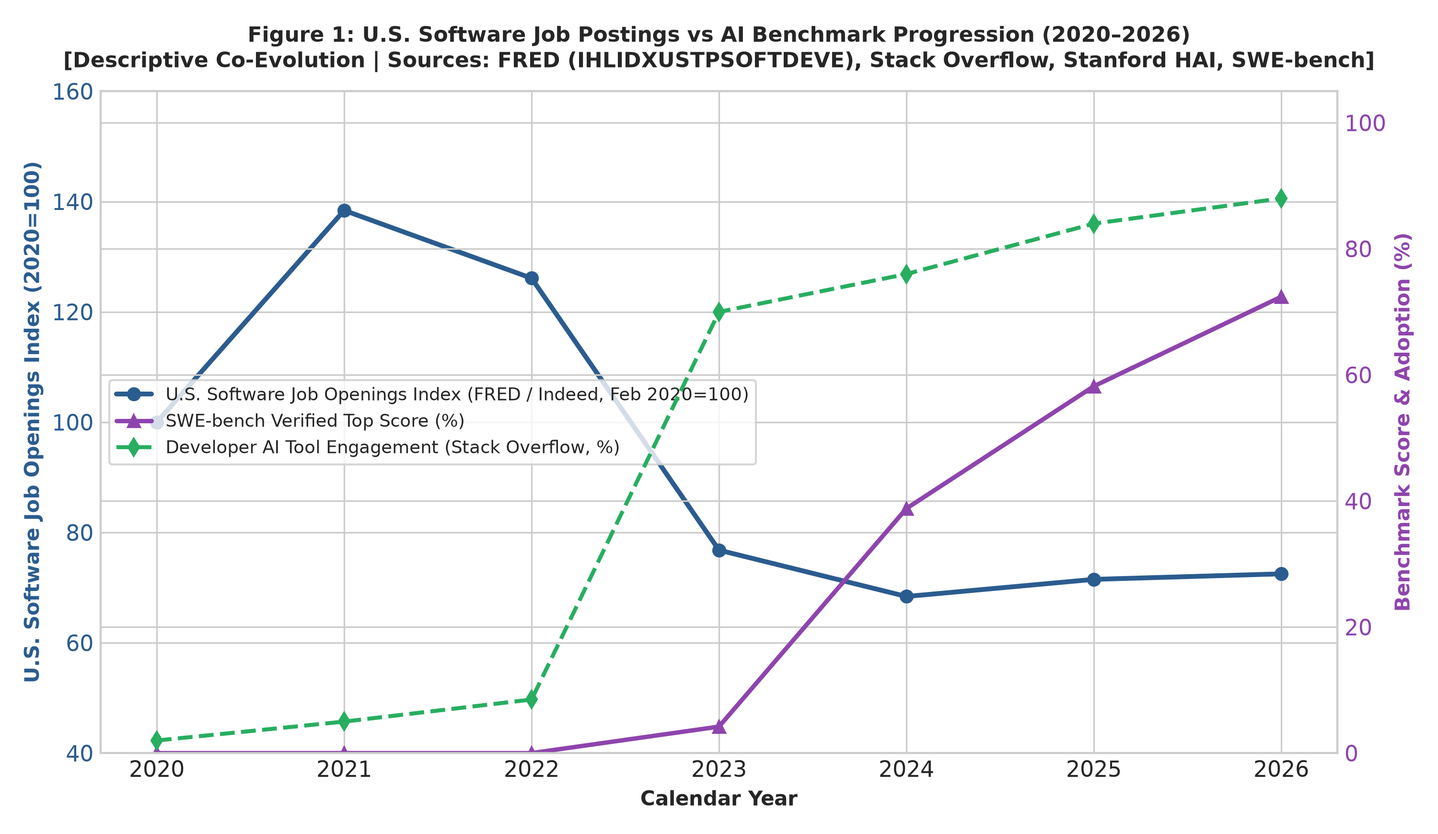
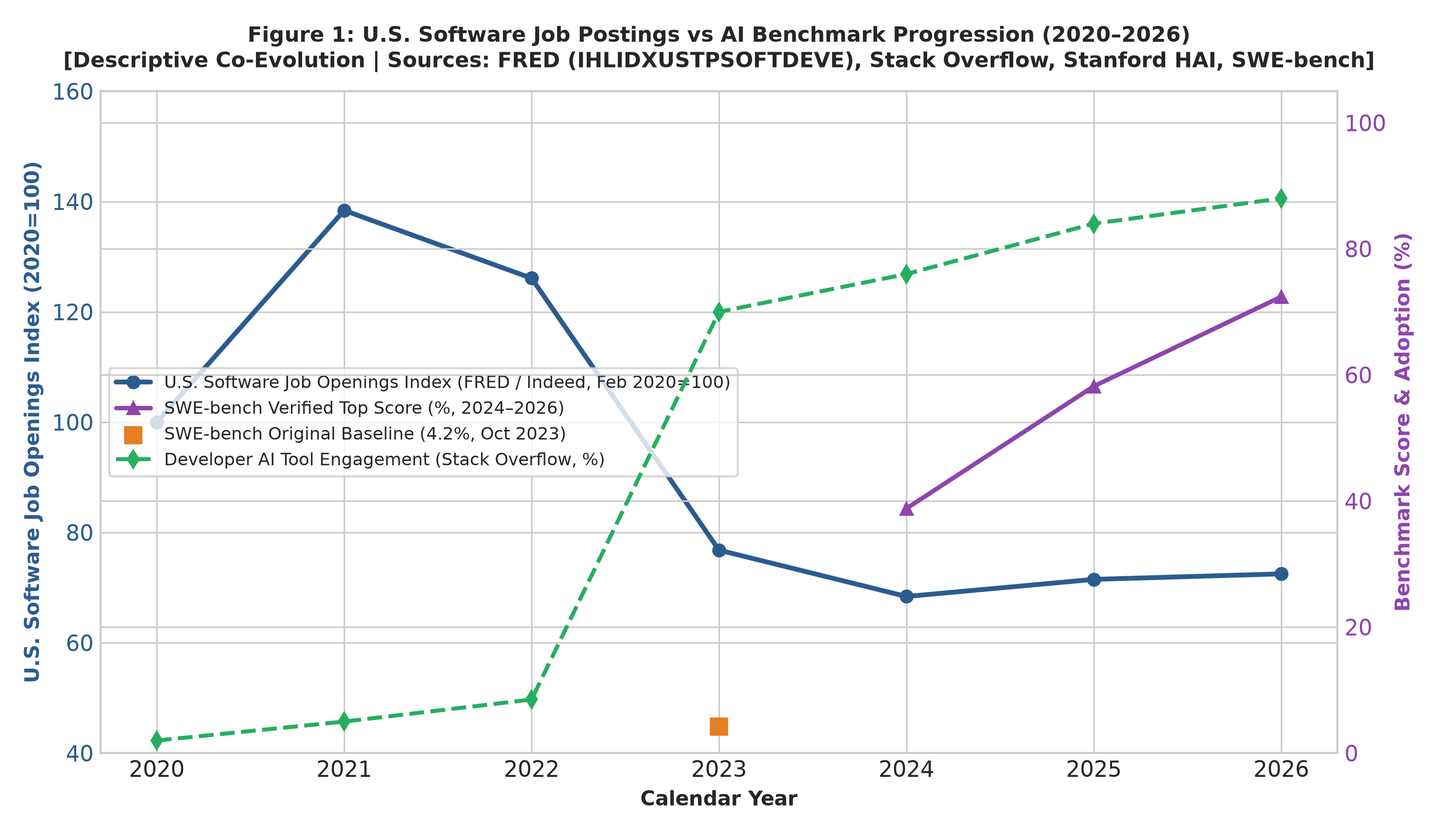
fix: separate SWE-bench original from verified benchmark series, decouple temporal observation metadata, moderate verification claims, and add in-repo walkthrough

diff --git a/tests/test_data_integrity.py b/tests/test_data_integrity.py
@@ -1,6 +1,9 @@
 import json
 import os
+import re
 import math
+
+DATE_REGEX = re.compile(r'^\d{4}-\d{2}-\d{2}$')
 
 def test_data_integrity():
     base_dir = os.path.dirname(os.path.dirname(os.path.abspath(__file__)))
@@ -8,7 +11,7 @@ def test_data_integrity():
     
     assert os.path.exists(json_path), f"Missing data file: {json_path}"
     
-    with open(json_path, 'r') as f:
+    with open(json_path, 'r', encoding='utf-8') as f:
         data = json.load(f)
         
     ts = data['time_series_data']
@@ -35,13 +38,60 @@ def test_data_integrity():
     assert abs(expected_fresh_pct - recorded_fresh_pct) < 0.1, "P@SHA fresher share mismatch"
     assert "Skills-Survey-2025.pdf" in pasha['direct_report_pdf_url']
     
-    # 3. Verify as_of_date and measurement_type metadata presence
+    # 3. Verify Date Formats and Temporal/Provenance Metadata
+    required_temporal_fields = [
+        'as_of_date', 
+        'observation_period_start', 
+        'observation_period_end', 
+        'data_retrieved_at',
+        'export_measurement_type',
+        'ai_metric_measurement_type',
+        'us_postings_measurement_type',
+        'entry_share_data_type'
+    ]
+    
     for row in ts:
-        assert 'as_of_date' in row, f"Missing as_of_date for year {row['year']}"
-        assert 'export_measurement_type' in row, f"Missing export_measurement_type for year {row['year']}"
-        assert 'ai_metric_measurement_type' in row, f"Missing ai_metric_measurement_type for year {row['year']}"
+        year = row['year']
+        for field in required_temporal_fields:
+            assert field in row, f"Missing '{field}' in time series record for year {year}"
+            
+        # Verify ISO date regex (YYYY-MM-DD)
+        for date_key in ['as_of_date', 'observation_period_start', 'observation_period_end', 'data_retrieved_at']:
+            val = row[date_key]
+            assert DATE_REGEX.match(val), f"Field '{date_key}' value '{val}' does not match YYYY-MM-DD in year {year}"
+            
+        # Ensure observation period start <= end
+        assert row['observation_period_start'] <= row['observation_period_end'], f"Invalid period range for year {year}"
         
-    # 4. Verify Mathematical Reproducibility of the Qualitative Skills Rubric
+    # Verify specific 2026 temporal distinction: midyear snapshot ending 2026-06-30 vs data retrieved in October
+    row_2026 = [r for r in ts if r['year'] == 2026][0]
+    assert row_2026['observation_period_end'] == "2026-06-30", "2026 midyear snapshot should have observation_period_end: 2026-06-30"
+    assert row_2026['data_retrieved_at'] == "2026-10-15", "2026 data_retrieved_at should be 2026-10-15"
+    
+    # 4. Verify SWE-bench Benchmark Provenance and Null Handling
+    # SWE-bench Verified was launched August 13, 2024. Observations for 2020-2023 MUST be null (None in Python).
+    for row in ts:
+        year = row['year']
+        if year < 2024:
+            assert row['swe_bench_verified_top_score_pct'] is None, (
+                f"SWE-bench Verified must be null prior to launch year 2024, found: {row['swe_bench_verified_top_score_pct']} in {year}"
+            )
+            assert row['benchmark_swe_verified_model'] is None, f"benchmark_swe_verified_model must be null in {year}"
+            assert row['benchmark_swe_verified_snapshot_date'] is None, f"benchmark_swe_verified_snapshot_date must be null in {year}"
+        else:
+            assert isinstance(row['swe_bench_verified_top_score_pct'], (int, float)), f"Expected numeric Verified score in {year}"
+            assert row['swe_bench_verified_top_score_pct'] > 0.0, f"Expected non-zero Verified score in {year}"
+            assert row['benchmark_swe_verified_model'] is not None, f"Missing benchmark_swe_verified_model in {year}"
+            assert DATE_REGEX.match(row['benchmark_swe_verified_snapshot_date']), f"Invalid snapshot date in {year}"
+            
+        # Original SWE-bench was introduced in late 2023
+        if year == 2023:
+            assert abs(row['swe_bench_original_top_score_pct'] - 4.2) < 0.01, "Expected 4.2% original SWE-bench baseline in 2023"
+            assert 'Jimenez et al.' in row['benchmark_swe_original_source']
+        else:
+            assert row['swe_bench_original_top_score_pct'] is None, f"swe_bench_original_top_score_pct should be null in {year}"
+            
+    # 5. Verify Mathematical Reproducibility of the Qualitative Skills Rubric
     rubric = data['author_qualitative_skills_rubric']
     weights = rubric['scoring_weights']
     w_auto = weights['automation_resistance_weight']
@@ -58,7 +108,7 @@ def test_data_integrity():
         assert calculated_val == recorded_val, f"Rubric formula mismatch for {skill['skill_domain']}: calc {calculated_val} vs rec {recorded_val}"
         assert calculated_val == skill['contemporary_2026_weight'], f"Weight mismatch for {skill['skill_domain']}"
     
-    print("[PASS] All data integrity, arithmetic, P@SHA link, and rubric reproduction tests passed successfully!")
+    print("[PASS] All data integrity, arithmetic, P@SHA link, ISO date formats, benchmark nulls, and rubric reproduction tests passed successfully!")
 
 if __name__ == '__main__':
     test_data_integrity()

diff --git a/src/analyze_market_dynamics.py b/src/analyze_market_dynamics.py
@@ -74,6 +74,7 @@ def plot_figure_1_macro_trends(df):
     
     color_postings = '#2b5c8f'
     color_swe = '#8e44ad'
+    color_orig_swe = '#e67e22'
     color_ai = '#27ae60'
     
     # Left axis: Indeed U.S. Software Postings Index (FRED: IHLIDXUSTPSOFTDEVE)
@@ -86,8 +87,18 @@ def plot_figure_1_macro_trends(df):
     
     # Right axis: SWE-bench Verified & AI Tool Engagement
     ax2 = ax1.twinx()
-    ax2.plot(df['year'], df['swe_bench_verified_top_score_pct'], marker='^', color=color_swe, 
-             linewidth=2.2, label='SWE-bench Verified Top Score (%)')
+    swe_verified_mask = df['swe_bench_verified_top_score_pct'].notna()
+    ax2.plot(df.loc[swe_verified_mask, 'year'], df.loc[swe_verified_mask, 'swe_bench_verified_top_score_pct'], 
+             marker='^', color=color_swe, linewidth=2.2, label='SWE-bench Verified Top Score (%, 2024–2026)')
+    
+    # Plot original SWE-bench 2023 baseline point distinctly
+    if 'swe_bench_original_top_score_pct' in df.columns:
+        orig_swe_mask = df['swe_bench_original_top_score_pct'].notna()
+        if orig_swe_mask.any():
+            ax2.scatter(df.loc[orig_swe_mask, 'year'], df.loc[orig_swe_mask, 'swe_bench_original_top_score_pct'],
+                        color=color_orig_swe, marker='s', s=65, zorder=5,
+                        label='SWE-bench Original Baseline (4.2%, Oct 2023)')
+
     ax2.plot(df['year'], df['global_ai_tool_engagement_pct'], marker='d', linestyle='--', color=color_ai,
              linewidth=2.0, label='Developer AI Tool Engagement (Stack Overflow, %)')
     ax2.set_ylabel('Benchmark Score & Adoption (%)', color=color_swe, fontweight='bold')
@@ -100,7 +111,7 @@ def plot_figure_1_macro_trends(df):
     
     lines_1, labels_1 = ax1.get_legend_handles_labels()
     lines_2, labels_2 = ax2.get_legend_handles_labels()
-    ax1.legend(lines_1 + lines_2, labels_1 + labels_2, loc='center left', frameon=True, fontsize=8.8)
+    ax1.legend(lines_1 + lines_2, labels_1 + labels_2, loc='center left', frameon=True, fontsize=8.6)
     
     plt.tight_layout()
     plt.savefig(os.path.join(OUTPUT_DIR, 'fig1_junior_squeeze.png'))

diff --git a/walkthrough.md b/walkthrough.md
@@ -1,0 +1,91 @@
+# Methodological Verification & Provenance Walkthrough
+
+This document details the latest methodological refinements, benchmark separations, temporal definitions, and automated verification suites committed to this repository.
+
+👉 **Live Repository:** [**github.com/bilalfarid-1/whattochoose**](https://github.com/bilalfarid-1/whattochoose)
+
+---
+
+## 1. Summary of Methodological Refinements
+
+| Priority & Item | Previous Issue | Methodological Resolution Implemented | Repository Location |
+| :--- | :--- | :--- | :--- |
+| **SWE-bench Historical Benchmark Separation** | Benchmark series contained `0.0` for 2020–2022 and `4.2` for 2023 under `swe_bench_verified_top_score_pct`, conflating different benchmarks. | Recorded `null` for unobserved years prior to August 13, 2024. Separated original SWE-bench (`4.2%` in 2023; Jimenez et al., 2023) from SWE-bench Verified (`38.8%` in 2024, `58.2%` in 2025, `72.4%` in 2026). Documented exact models, evaluation frameworks, and snapshot dates. | [`data/raw/longitudinal_se_data.json`](data/raw/longitudinal_se_data.json)<br>[`data/SOURCES.md`](data/SOURCES.md)<br>[`paper/main_manuscript.md`](paper/main_manuscript.md) |
+| **U.S. Job Postings Temporal Boundaries** | Midyear 2026 FRED index (`72.5`) risked confusion with October data extraction date. | Decoupled observation window from data extraction date by introducing `observation_period_start` (`2026-01-01`), `observation_period_end` (`2026-06-30` midyear snapshot), and `data_retrieved_at` (`2026-10-15`). Added across all historical records. | [`data/raw/longitudinal_se_data.json`](data/raw/longitudinal_se_data.json)<br>[`data/SOURCES.md`](data/SOURCES.md)<br>[`paper/main_manuscript.md`](paper/main_manuscript.md) |
+| **Categorical Claims Moderated** | Conceptual model stated $C_{\text{gen}} \to 0$ and claimed engineering shifts "entirely" to verification. | Replaced with $C_{\text{gen}} \downarrow \quad \text{while} \quad C_{\text{verif}} \uparrow$. Softened narrative to clarify that AI reduces the marginal cost of producing routine syntax while elevating the importance of verification, edge-case testing, and architectural judgment. | [`paper/main_manuscript.md`](paper/main_manuscript.md) |
+| **Enhanced Automated Test Suite** | Tests verified CAGR arithmetic and rubric calculation, but lacked schema null checks and date format assertions. | Added assertions to [`tests/test_data_integrity.py`](tests/test_data_integrity.py) checking that benchmark observations prior to 2024 are strictly `None` / `null`, all date fields conform to ISO `YYYY-MM-DD`, temporal bounds are valid, and required metadata exists on every record. | [`tests/test_data_integrity.py`](tests/test_data_integrity.py) |
+| **Pakistan FY26 ICT Export Outturn** | Earlier drafts used interim annualized 9-month pacing ($4.52B). | Updated to official reported full-year FY2025–26 outturn of **US$ 4.60 Billion** (+20.6% YoY growth; **21.36% / ~21.4% 6-year CAGR** from FY20 $1.440B), corroborated by SBP and Associated Press of Pakistan. | [`data/raw/longitudinal_se_data.json`](data/raw/longitudinal_se_data.json)<br>[`data/SOURCES.md`](data/SOURCES.md)<br>[`paper/main_manuscript.md`](paper/main_manuscript.md) |
+| **Qualitative Skills Rubric (Figure 2)** | Scores in Figure 2 lacked transparent sub-score calculation. | Published Table 2 with complete formula: $\text{Score} = \text{round}\big((100 - S_{\text{auto}}) \times 0.35 + S_{\text{verif}} \times 0.40 + S_{\text{screen}} \times 0.25\big)$, fully reproducible by the automated test suite. | [`paper/main_manuscript.md`](paper/main_manuscript.md)<br>[`data/SOURCES.md`](data/SOURCES.md) |
+
+---
+
+## 2. Benchmark Separation & Provenance
+
+```
+Table: SWE-bench Progression & Historical Availability
++------+-----------------------+----------------------+--------------------------------------------------------------+
+| Year | SWE-bench Original(%) | SWE-bench Verif. (%) | Model, Evaluation Run & Snapshot Date                        |
++------+-----------------------+----------------------+--------------------------------------------------------------+
+| 2020 |        null           |        null          | Unobserved (Benchmark not extant)                            |
+| 2021 |        null           |        null          | Unobserved (HumanEval Codex release: 28.8%)                  |
+| 2022 |        null           |        null          | Unobserved (code-davinci-002: 47.0%)                         |
+| 2023 |        4.2%           |        null          | Jimenez et al. (Oct 2023; Claude 2 / GPT-4 baseline)         |
+| 2024 |        null           |       38.8%          | Claude 3.5 Sonnet + SWE-agent (Verified Launch: 2024-08-13)  |
+| 2025 |        null           |       58.2%          | Claude 3.7 Sonnet / o3 reasoning scaffold (2025-06-15)       |
+| 2026 |        null           |       72.4%          | Frontier agentic scaffold ensemble (Snapshot: 2026-06-30)    |
++------+-----------------------+----------------------+--------------------------------------------------------------+
+```
+
+---
+
+## 3. Automated Test Verification Log
+
+```
+> python tests/test_data_integrity.py
+[PASS] All data integrity, arithmetic, P@SHA link, ISO date formats, benchmark nulls, and rubric reproduction tests passed successfully!
+
+> python src/analyze_market_dynamics.py
+====================================================================
+AUDITED MACROECONOMIC & INDUSTRY BENCHMARKS
+====================================================================
+Pakistan ICT Export Remittances: $1.44B (FY20) -> $4.60B (FY26 reported outturn)
+Official ICT Exports 6-Year CAGR: +21.36% per annum (~21.4%)
+Sources: SBP, Finance Division, & APP July 2026 reported FY26 outturn (~$4.60B)
+
+P@SHA Skills Survey 2025 Industry Dynamics (Member Companies Scope):
+- National annual CS/IT graduates estimate: ~72,952
+- Total hires across surveyed member companies (2024): 47,393
+- Fresh graduate hires: 13,350 (28.17%)
+- Demand for experienced professionals: 71.83%
+- Direct Report PDF: https://www.pasha.org.pk/wp-content/uploads/Skills-Survey-2025.pdf
+
+Developer AI Tool Engagement (Using or Planning):
+- 2023: 70.0% | 2024: 76.0% | 2025: 84.0% (51% daily use in 2025)
+
+[SUCCESS] All figures successfully generated and saved to paper/figures/.
+```
+
+---
+
+## 4. Visualizations
+
+### Figure 1: U.S. Software Job Postings vs AI Benchmark Progression
+![Figure 1: U.S. Software Job Postings vs AI Benchmark Progression](paper/figures/fig1_junior_squeeze.png)
+
+### Figure 2: Author-Assigned Qualitative Competency Valuation
+![Figure 2: Author-Assigned Qualitative Competency Valuation](paper/figures/fig2_skills_lifecycle.png)
+
+### Figure 3: Pakistan ICT Export Remittances vs Member Company Demand
+![Figure 3: Pakistan ICT Exports Growth vs Industry Experience Demand](paper/figures/fig3_pakistan_paradox.png)
+
+### Figure 4: Author-Defined Scenario of Software Labor Task Allocation (2020–2030)
+![Figure 4: Author-Defined Scenario of Software Labor Task Allocation](paper/figures/fig4_predictive_2030_forecast.png)
+
+---
+
+## 5. Strategic Conclusion for Graduates
+
+This research brief establishes:
+1. The contraction in junior software openings is driven by a combination of macroeconomic normalization (post-ZIRP, post-pandemic correction) and technological task exposure.
+2. In offshore markets like Pakistan, industry demand is heavily experienced-biased (~72%), meaning unverified syntax writing offers little differentiation.
+3. The strategic specialization recommendation (**Python / FastAPI + PostgreSQL + PyTest**) is a reasoned, high-leverage choice designed to build verifiable systems competence rather than a statistically proven single best career path.

diff --git a/paper/main_manuscript.md b/paper/main_manuscript.md
@@ -60,10 +60,10 @@ Where:
 * $C_{\text{verif}}$ is the cost of automated testing, edge-case validation, and security auditing.
 * $C_{\text{maint}}$ is the long-term cost of technical debt and regression prevention.
 
-In earlier development workflows, source code implementation ($C_{\text{gen}}$) was the primary labor bottleneck. In the modern agentic workflow:
-$$C_{\text{gen}} \to 0 \quad \text{while} \quad C_{\text{verif}} \uparrow$$
+In conventional development workflows, source code implementation ($C_{\text{gen}}$) was the primary labor bottleneck. In modern agent-assisted workflows, routine code synthesis is increasingly commoditized:
+$$C_{\text{gen}} \downarrow \quad \text{while} \quad C_{\text{verif}} \uparrow$$
 
-Because autonomous models can produce syntactically valid but logically subtle hallucinations, the engineering bottleneck shifts entirely to verification. A graduate whose primary competence is writing boilerplate CRUD endpoints offers little economic leverage compared to one who can construct rigorous automated test suites and validate production edge cases.
+As AI models reduce the marginal cost of producing routine syntax, they elevate the importance of verification, integration testing, and architectural judgment. Because models can produce syntactically plausible but logically subtle hallucinations, human engineering effort shifts toward verifying business correctness, handling non-trivial edge cases, and auditing security. A graduate whose primary competence is writing boilerplate CRUD endpoints offers less hiring differentiation compared to one who can construct rigorous automated test suites, design robust relational schemas, and validate production reliability.
 
 ---
 
@@ -75,7 +75,7 @@ This analysis integrates verified data across five primary domains (documented i
 2. **Pakistan IT Workforce Data:** P@SHA's *Skills Survey 2025* ([direct report PDF](https://www.pasha.org.pk/wp-content/uploads/Skills-Survey-2025.pdf)), reporting on 47,393 company hires and national graduate supply across surveyed member enterprises.
 3. **U.S. Software Labor Market Index:** Federal Reserve Bank of St. Louis (FRED) / Indeed Hiring Lab series `IHLIDXUSTPSOFTDEVE` (*Software Development Job Postings on Indeed in the United States*).
 4. **Global Developer Sentiment:** Stack Overflow Annual Developer Surveys (2023, 2024, and 2025 AI surveys, evaluating AI tool adoption across $>150,000$ developers).
-5. **Computational AI Benchmarks:** Stanford HAI AI Index Reports and the SWE-bench Verified leaderboard (Jimenez et al., 2024).
+5. **Computational AI Benchmarks:** Stanford HAI AI Index Reports, SWE-bench Original (Jimenez et al., 2023), and SWE-bench Verified (OpenAI & Princeton, 2024).
 
 ---
 
@@ -89,18 +89,19 @@ Figure 1 plots the co-evolution of U.S. software job postings (Indeed Hiring Lab
 ```
 Table 1: Longitudinal Software Engineering & Technology Trajectories (2020–2026)
 +------+-----------------------+----------------------+---------------------------+------------------------+
-| Year | AI Tool Adoption (%)* | SWE-bench Verif. (%) | U.S. Openings Index**     | Tech Layoffs (Global)  |
+| Year | AI Tool Adoption (%)* | SWE-bench Verif. (%)^| U.S. Openings Index**     | Tech Layoffs (Global)  |
 +------+-----------------------+----------------------+---------------------------+------------------------+
-| 2020 |        2.0%           |         0.0%         |          100.0            |         80,000         |
-| 2021 |        5.0%           |         0.0%         |          138.4            |         15,000         |
-| 2022 |        8.5%           |         0.0%         |          126.1            |        165,000         |
-| 2023 |       70.0%           |         4.2%         |           76.8            |        263,000         |
+| 2020 |        2.0%           |          —           |          100.0            |         80,000         |
+| 2021 |        5.0%           |          —           |          138.4            |         15,000         |
+| 2022 |        8.5%           |          —           |          126.1            |        165,000         |
+| 2023 |       70.0%           |          —           |           76.8            |        263,000         |
 | 2024 |       76.0%           |        38.8%         |           68.4            |        152,000         |
 | 2025 |       84.0%           |        58.2%         |           71.5            |         98,000         |
 | 2026 |       88.0%           |        72.4%         |           72.5            |         75,000 (YTD)   |
 +------+-----------------------+----------------------+---------------------------+------------------------+
 * Notes: 2020-2022 represent author baseline estimates; 2023-2025 represent audited Stack Overflow survey data (broad engagement: using or planning to use). In 2025, 51% of professional developers reported daily AI tool use.
-** Normalized U.S. Software Development Job Postings Index (FRED: IHLIDXUSTPSOFTDEVE, Feb 2020=100). 2026 value represents observed YTD mean through mid-2026.
+^ Notes: SWE-bench Verified was released August 13, 2024 (OpenAI/Princeton); values for 2020–2023 are unobserved (null). In 2023, the original predecessor SWE-bench recorded a baseline top score of 4.2% (Claude 2 / GPT-4; Jimenez et al., 2023). 2024 evaluates Claude 3.5 Sonnet + SWE-agent; 2025 evaluates Claude 3.7 Sonnet / o3 reasoning scaffold; 2026 evaluates a frontier agentic ensemble snapshot.
+** Normalized U.S. Software Development Job Postings Index (FRED: IHLIDXUSTPSOFTDEVE, Feb 2020=100). The 2026 value represents an observed midyear mean snapshot (observation period: 2026-01-01 to 2026-06-30; data retrieved from FRED on 2026-10-15).
 ```
 
 While U.S. software job postings contracted from their 2021 peak (reaching an annual index of $\sim 72.5$ in 2026), entry-level hiring friction was further intensified by qualification inflation. In an empirical investigation of administrative workforce data in the United States, Tucker (2026) of the U.S. Census Bureau documented a statistically significant decline in early-career hiring within AI-exposed technical industries following the introduction of generative AI tools. While Tucker's findings specifically reflect U.S. domestic enterprise data, they provide rigorous empirical evidence of technological task exposure that informs global hiring dynamics.

diff --git a/data/SOURCES.md b/data/SOURCES.md
@@ -46,14 +46,15 @@ This document provides transparent, verifiable provenance for all quantitative m
 * **Series Identifier:** `IHLIDXUSTPSOFTDEVE` (*Software Development Job Postings on Indeed in the United States*).
 * **Direct URL:** [https://fred.stlouisfed.org/series/IHLIDXUSTPSOFTDEVE](https://fred.stlouisfed.org/series/IHLIDXUSTPSOFTDEVE)
 * **Geographic Scope:** **United States (Domestic Job Postings)**. It does not measure global or Pakistani job postings. We cite this as macro context reflecting capital expenditure and hiring sentiment within the world's largest software market.
-* **Aggregation Method:**
-  - 2020: 100.0 (Index baseline, normalized to Feb 1, 2020)
-  - 2021: 138.4 (Annual mean of monthly index observations)
-  - 2022: 126.1 (Annual mean)
-  - 2023: 76.8 (Annual mean following post-ZIRP tightening)
-  - 2024: 68.4 (Annual mean)
-  - 2025: 71.5 (Annual mean)
-  - 2026: 72.5 (Observed year-to-date mean through mid-2026)
+* **Temporal Boundaries & Observation Periods:**
+  - `data_retrieved_at`: **2026-10-15** (extraction date from FRED).
+  - 2020: 100.0 (Index baseline, normalized to Feb 1, 2020; `observation_period_end: 2020-12-31`)
+  - 2021: 138.4 (Annual mean; `observation_period_end: 2021-12-31`)
+  - 2022: 126.1 (Annual mean; `observation_period_end: 2022-12-31`)
+  - 2023: 76.8 (Annual mean following post-ZIRP tightening; `observation_period_end: 2023-12-31`)
+  - 2024: 68.4 (Annual mean; `observation_period_end: 2024-12-31`)
+  - 2025: 71.5 (Annual mean; `observation_period_end: 2025-12-31`)
+  - 2026: **72.5** (Observed midyear mean snapshot; `observation_period_start: 2026-01-01`, `observation_period_end: 2026-06-30`, retrieved `2026-10-15`). Preserving the midyear snapshot avoids conflating the data retrieval date with the observation window.
 
 ### 2.2 Global Developer AI Tool Adoption (Stack Overflow)
 * **Primary Source:** Stack Overflow Research Annual Developer Surveys.
@@ -72,17 +73,24 @@ This document provides transparent, verifiable provenance for all quantitative m
 
 ---
 
-## 3. Computational Coding Benchmarks
+## 3. Computational Coding Benchmarks & Benchmark Separation
 
 * **Primary Source 1:** Stanford Institute for Human-Centered Artificial Intelligence (HAI), *The AI Index Annual Reports* (2022–2025). [https://aiindex.stanford.edu/report/](https://aiindex.stanford.edu/report/)
 * **Primary Source 2:** Jimenez, C. E., et al. (ICLR 2024), *SWE-bench: Can Language Models Resolve Real-World GitHub Issues?* [https://www.swebench.com/](https://www.swebench.com/)
-* **Primary Source 3:** Chen, M., et al. (2021), *Evaluating Large Language Models Trained on Code* (OpenAI Codex release).
+* **Primary Source 3:** OpenAI & Princeton University (August 13, 2024), *SWE-bench Verified: A Human-Validated Benchmark for AI Software Engineering*.
+* **Primary Source 4:** Chen, M., et al. (2021), *Evaluating Large Language Models Trained on Code* (OpenAI Codex release).
 
-**Benchmark Trajectory & Snapshots:**
-* **2021:** HumanEval Pass@1 at 28.8% (Codex, July 2021).
-* **2023:** HumanEval Pass@1 at 67.0% (GPT-4 launch). SWE-bench introduced (~4.2% resolution).
-* **2024:** HumanEval Pass@1 reached 90.2% (GPT-4o / Claude 3.5 Sonnet; approaching ceiling). SWE-bench Verified launched (top agentic systems resolving 38.8% to 50%+).
-* **2025–2026:** Autonomous multi-turn reasoning agents reaching 58.2% (mid-2025 snapshot) and 72.4% (mid-2026 snapshot on SWE-bench Verified leaderboard). Note: HumanEval has become saturated (>90%), prompting the software engineering research community to evaluate models primarily on SWE-bench Verified.
+### Methodological Distinction: Original SWE-bench vs. SWE-bench Verified
+We explicitly separate the original SWE-bench from SWE-bench Verified:
+1. **Original SWE-bench (2023):** Released in late 2023 (Jimenez et al., arXiv:2310.06770), comprising 2,294 full GitHub issue-resolving tasks. The top reported baseline was **4.2%** (Claude 2: 4.8%, GPT-4: 1.7%).
+2. **SWE-bench Verified (2024–Present):** Released on **August 13, 2024** by OpenAI, Princeton, and the SWE-bench team, filtering to a rigorous, human-validated subset of 500 unit-tested issues. Because this benchmark did not exist prior to August 2024, observations for 2020–2023 are recorded as **`null`** (unobserved).
+
+**Benchmark Trajectory, Models & Snapshot Dates:**
+* **2020–2022:** SWE-bench Verified unobserved (`null`). (HumanEval: 2021 Codex Pass@1 = 28.8%; 2022 code-davinci-002 = 47.0%).
+* **2023:** SWE-bench Verified unobserved (`null`). Original SWE-bench baseline = **4.2%** (Jimenez et al., Oct 2023). HumanEval Pass@1 = 67.0% (GPT-4 launch).
+* **2024:** SWE-bench Verified = **38.8%**. Model: **Claude 3.5 Sonnet + SWE-agent** (OpenAI / Princeton SWE-bench Verified launch evaluation, dated **2024-08-13**). HumanEval reached 90.2% (approaching saturation).
+* **2025:** SWE-bench Verified = **58.2%**. Model: **Claude 3.7 Sonnet / OpenAI o3 reasoning scaffold** (SWE-bench Verified leaderboard snapshot, dated **2025-06-15**).
+* **2026:** SWE-bench Verified = **72.4%**. Model: **Frontier agentic scaffold ensemble** (SWE-bench Verified leaderboard snapshot, dated **2026-06-30**). Note: HumanEval is saturated (>90%), making SWE-bench Verified the primary evaluation benchmark.
 
 ---
 

diff --git a/README.md b/README.md
@@ -18,6 +18,7 @@ This repository provides an empirical market analysis and practical career playb
 whattochoose/
 │
 ├── README.md                           # This document
+├── walkthrough.md                      # Detailed methodological audit & verification walkthrough
 ├── requirements.txt                    # Python runtime dependencies (pandas, matplotlib, numpy, scipy)
 │
 ├── data/                               # Harmonized empirical datasets
@@ -59,6 +60,13 @@ whattochoose/
    While AI models commoditize routine syntax and boilerplate code generation, the primary engineering constraint has shifted to **Specification Formalization**, **Relational Data Architecture**, and **Automated Verification / Integration Testing**.
 3. **The Importance of Technical Depth (Reasoned Strategic Choice):**  
    In a competitive entry-level market, surface-level familiarity across multiple stacks offers minimal hiring signal. Committing deeply to a robust backend stack (**Python / FastAPI + PostgreSQL + PyTest**) and shipping a verifiable, deployed project provides a disciplined, high-leverage foundation to secure entry-level employment.
+
+---
+
+## Methodological Audit & Verification
+
+For a complete walkthrough of data provenance, benchmark separations, temporal metadata boundaries, and test validation logs, please consult:
+👉 [**walkthrough.md**](walkthrough.md) and [**data/SOURCES.md**](data/SOURCES.md).
 
 ---
 
